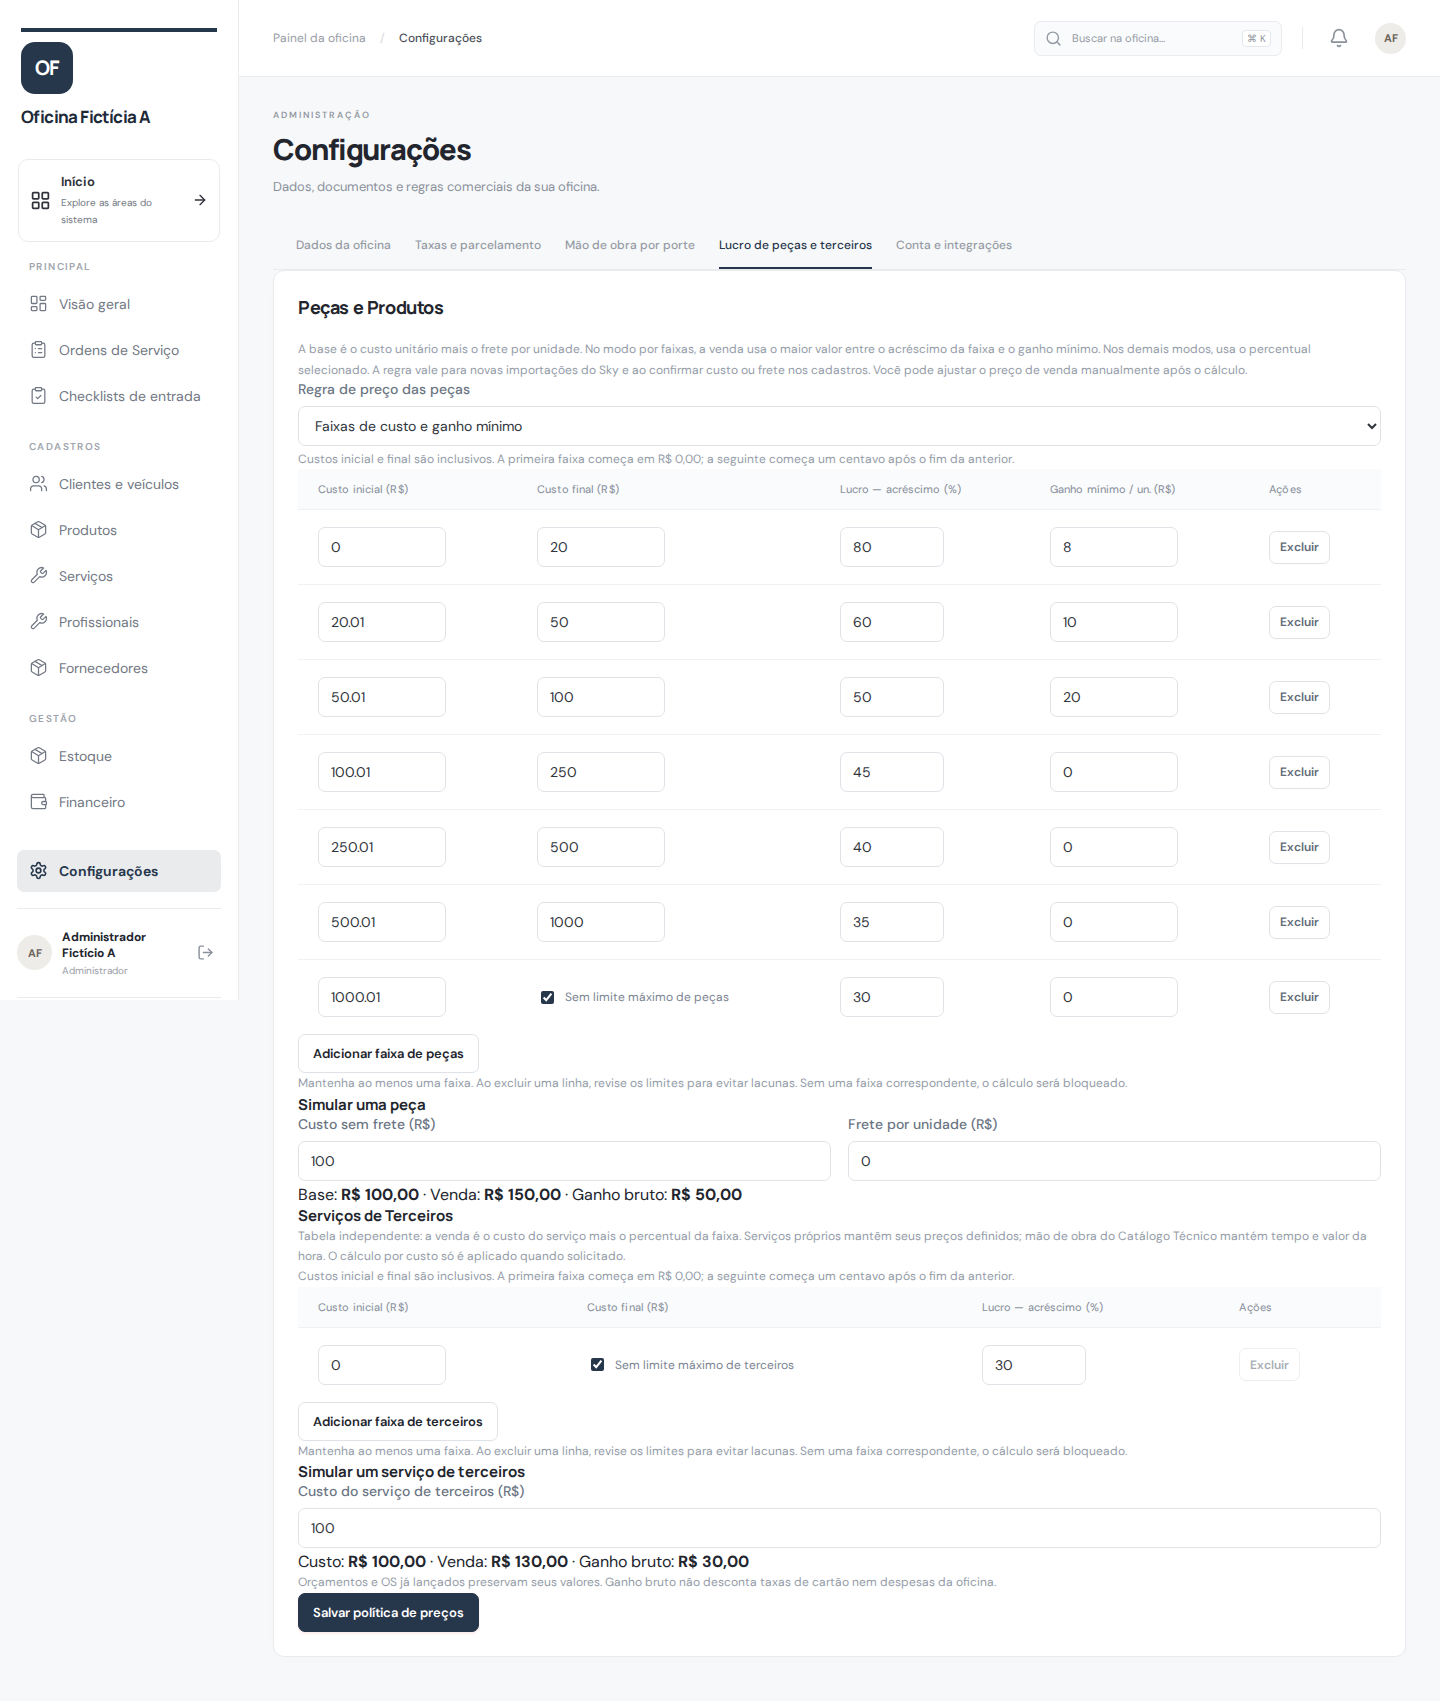
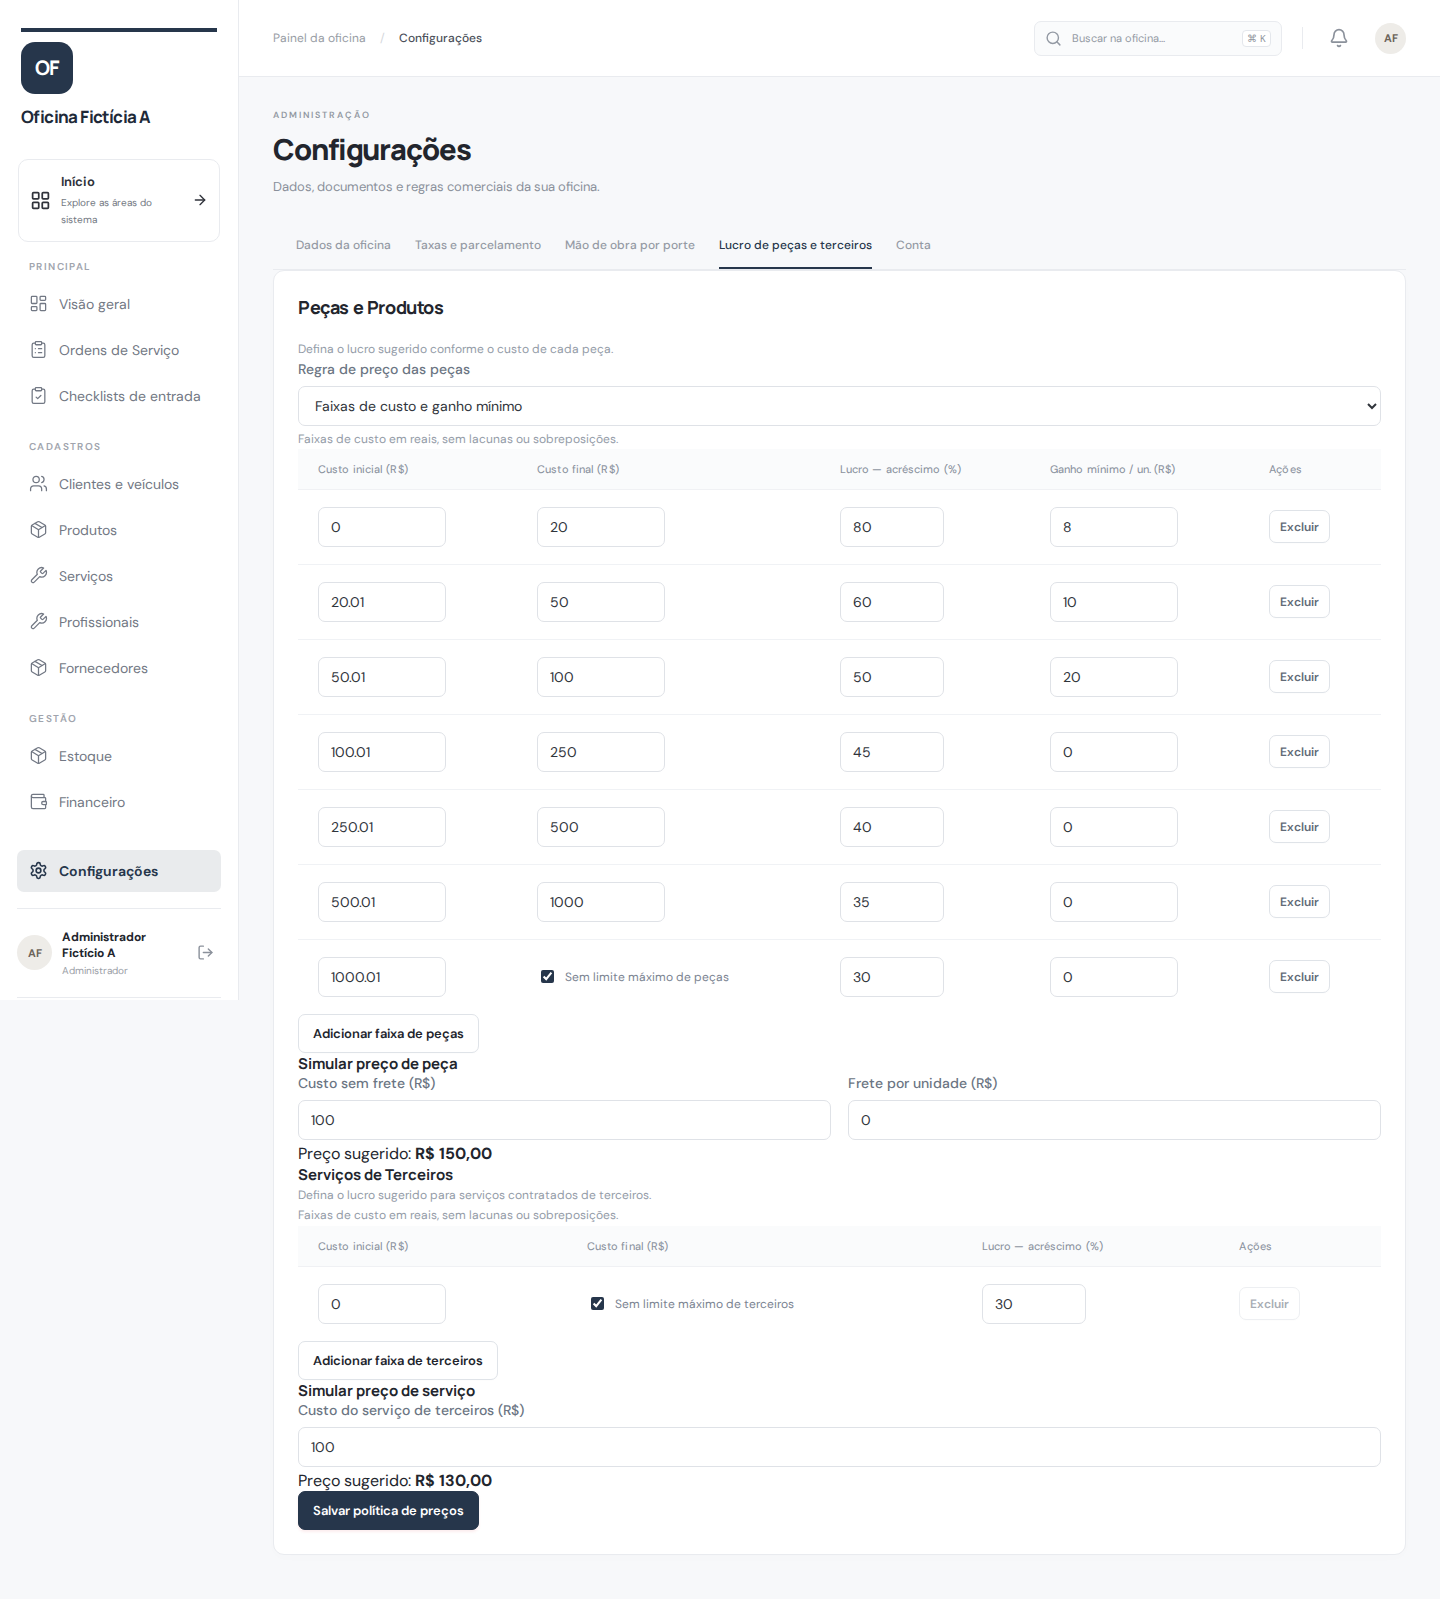
fix: simplificar a aba Lucro de peças e terceiros (#108)
* fix: simplificar textos e resultados da aba Lucro de peças

* docs: atualizar capturas simplificadas de lucro desktop e mobile

diff --git a/src/pages/PartsPricing.tsx b/src/pages/PartsPricing.tsx
@@ -49,10 +49,7 @@ function ProfitTable({
   const error = rangeError(rows);
   return (
     <>
-      <p className="muted">
-        Custos inicial e final são inclusivos. A primeira faixa começa em R$
-        0,00; a seguinte começa um centavo após o fim da anterior.
-      </p>
+      <p className="muted">Faixas de custo em reais, sem lacunas ou sobreposições.</p>
       <div className="table-scroll">
         <table
           aria-label={
@@ -188,11 +185,7 @@ function ProfitTable({
           {thirdParty ? "Serviços de Terceiros" : "Peças e Produtos"}: {error}
         </p>
       )}
-      <p className="muted">
-        Mantenha ao menos uma faixa. Ao excluir uma linha, revise os limites
-        para evitar lacunas. Sem uma faixa correspondente, o cálculo será
-        bloqueado.
-      </p>
+
     </>
   );
 }
@@ -277,14 +270,7 @@ export function PartsPricing() {
     >
       <fieldset disabled={busy} className="product-batch-fields">
         <h2>Peças e Produtos</h2>
-        <p className="muted">
-          A base é o custo unitário mais o frete por unidade. No modo por
-          faixas, a venda usa o maior valor entre o acréscimo da faixa e o ganho
-          mínimo. Nos demais modos, usa o percentual selecionado. A regra vale
-          para novas importações do Sky e ao confirmar custo ou frete nos
-          cadastros. Você pode ajustar o preço de venda manualmente após o
-          cálculo.
-        </p>
+        <p className="muted">Defina o lucro sugerido conforme o custo de cada peça.</p>
         <Field label="Regra de preço das peças">
           <select
             value={mode}
@@ -317,13 +303,10 @@ export function PartsPricing() {
           </Field>
         )}
         {mode !== "legacy" && (
-          <p className="muted">
-            A tabela abaixo fica preservada e só será utilizada no modo Faixas
-            de custo e ganho mínimo.
-          </p>
+          <p className="muted">As faixas ficam guardadas para quando este modo for selecionado.</p>
         )}
         <ProfitTable rows={rules} setRows={setRules} />
-        <h3>Simular uma peça</h3>
+        <h3>Simular preço de peça</h3>
         <div className="form-grid">
           <Field label="Custo sem frete (R$)">
             <NumericInput
@@ -352,20 +335,13 @@ export function PartsPricing() {
           <p role="alert">{simulationError}</p>
         ) : (
           <p data-testid="product-price-simulation">
-            Base: <strong>{money(base)}</strong> · Venda:{" "}
-            <strong>{money(price)}</strong> · Ganho bruto:{" "}
-            <strong>{money(price - base)}</strong>
+            Preço sugerido: <strong>{money(price)}</strong>
           </p>
         )}
         <h3>Serviços de Terceiros</h3>
-        <p className="muted">
-          Tabela independente: a venda é o custo do serviço mais o percentual da
-          faixa. Serviços próprios mantêm seus preços definidos; mão de obra do
-          Catálogo Técnico mantém tempo e valor da hora. O cálculo por custo só
-          é aplicado quando solicitado.
-        </p>
+        <p className="muted">Defina o lucro sugerido para serviços contratados de terceiros.</p>
         <ProfitTable rows={serviceRules} setRows={setServiceRules} thirdParty />
-        <h3>Simular um serviço de terceiros</h3>
+        <h3>Simular preço de serviço</h3>
         <Field label="Custo do serviço de terceiros (R$)">
           <NumericInput
             type="number"
@@ -381,15 +357,10 @@ export function PartsPricing() {
           <p role="alert">{serviceError}</p>
         ) : (
           <p data-testid="service-price-simulation">
-            Custo: <strong>{money(serviceCost)}</strong> · Venda:{" "}
-            <strong>{money(servicePrice)}</strong> · Ganho bruto:{" "}
-            <strong>{money(servicePrice - serviceCost)}</strong>
+            Preço sugerido: <strong>{money(servicePrice)}</strong>
           </p>
         )}
-        <p className="muted">
-          Orçamentos e OS já lançados preservam seus valores. Ganho bruto não
-          desconta taxas de cartão nem despesas da oficina.
-        </p>
+
         {error && (
           <div role="alert" className="error-box">
             {error}

diff --git a/docs/mapeamento-visual/CHECKLIST.md b/docs/mapeamento-visual/CHECKLIST.md
@@ -38,7 +38,7 @@ Estados: capturada, pendente, bloqueada e não aplicável.
 | config-dados-oficina | Configurações da oficina | Dados da Oficina Fictícia A — Identificação, endereço efetivo, navegação por seções e prévia de documento. | [`capturas/14-configuracoes/dados-oficina-a.png`](./capturas/14-configuracoes/dados-oficina-a.png) | capturada | 2026-11-01 | 56b226764ee6420a52bdff3a41bd459113618460 | — |
 | config-geral-taxas | Configurações da oficina | Taxas e parcelamento — Máquinas independentes, padrão da oficina e juros de parcelamento. | [`capturas/14-configuracoes/geral-e-taxas.png`](./capturas/14-configuracoes/geral-e-taxas.png) | capturada | 2026-11-01 | 26770cc4da2ccbf9de3620882b0a87066fdce927 | — |
 | config-mao-obra | Configurações da oficina | Mão de obra por porte — Valores de referência sem alteração. | [`capturas/14-configuracoes/mao-de-obra.png`](./capturas/14-configuracoes/mao-de-obra.png) | capturada | 2026-11-01 | 56b226764ee6420a52bdff3a41bd459113618460 | — |
-| config-lucro-pecas | Configurações da oficina | Lucro de peças e terceiros — Tabelas independentes com inclusão, edição, exclusão, limites inclusivos e simuladores de peças e terceiros. | [`capturas/14-configuracoes/lucro-pecas-terceiros.png`](./capturas/14-configuracoes/lucro-pecas-terceiros.png) | capturada | 2026-11-01 | f5768888f02977880ff9e976fa5fad6670796efd | — |
+| config-lucro-pecas | Configurações da oficina | Lucro de peças e terceiros — Faixas editáveis de peças e terceiros com simuladores que mostram o preço sugerido. | [`capturas/14-configuracoes/lucro-pecas-terceiros.png`](./capturas/14-configuracoes/lucro-pecas-terceiros.png) | capturada | 2026-11-03 | b8d27c0f97305c128c7a4a8ed9047aad4c061261 | — |
 | login-painel-central | Painel Administrativo Central | Login do Painel Administrativo Central — Formulário vazio; nenhuma credencial ou código MFA aparece na captura. | [`capturas/17-painel-admin-central/login-admin-central.png`](./capturas/17-painel-admin-central/login-admin-central.png) | capturada | 2026-10-22 | não registrado | Captura real com dados fictícios feita em 22/10/2026. O commit de origem não foi registrado; recaptura Playwright e atualização do commit estão pendentes. |
 | login-oficina-desktop | Login e acesso | Login da oficina — Tela inicial de autenticação, sem usuário ou senha preenchidos. | `capturas/01-login-acesso/login-oficina-desktop.png` (previsto) | pendente | — | não registrado | Variante desktop ainda não foi gerada. Execute a captura Playwright em ambiente local de teste. |
 | inicio-oficina-a-desktop | Dashboard | Início da Oficina Fictícia A — Menu e atalhos da conta de demonstração. | `capturas/02-dashboard/inicio-oficina-desktop.png` (previsto) | pendente | — | não registrado | Variante desktop ainda não foi gerada. Execute a captura Playwright em ambiente local de teste. |
@@ -74,7 +74,7 @@ Estados: capturada, pendente, bloqueada e não aplicável.
 | config-dados-oficina-desktop | Configurações da oficina | Dados da Oficina Fictícia A — Identificação, endereço efetivo, navegação por seções e prévia de documento. | [`capturas/14-configuracoes/dados-oficina-a-desktop.png`](./capturas/14-configuracoes/dados-oficina-a-desktop.png) | capturada | 2026-11-01 | 56b226764ee6420a52bdff3a41bd459113618460 | — |
 | config-geral-taxas-desktop | Configurações da oficina | Taxas e parcelamento — Máquinas independentes, padrão da oficina e juros de parcelamento. | [`capturas/14-configuracoes/geral-e-taxas-desktop.png`](./capturas/14-configuracoes/geral-e-taxas-desktop.png) | capturada | 2026-11-01 | 26770cc4da2ccbf9de3620882b0a87066fdce927 | — |
 | config-mao-obra-desktop | Configurações da oficina | Mão de obra por porte — Valores de referência sem alteração. | [`capturas/14-configuracoes/mao-de-obra-desktop.png`](./capturas/14-configuracoes/mao-de-obra-desktop.png) | capturada | 2026-11-01 | 56b226764ee6420a52bdff3a41bd459113618460 | — |
-| config-lucro-pecas-desktop | Configurações da oficina | Lucro de peças e terceiros — Tabelas independentes com inclusão, edição, exclusão, limites inclusivos e simuladores de peças e terceiros. | [`capturas/14-configuracoes/lucro-pecas-terceiros-desktop.png`](./capturas/14-configuracoes/lucro-pecas-terceiros-desktop.png) | capturada | 2026-11-01 | f5768888f02977880ff9e976fa5fad6670796efd | — |
+| config-lucro-pecas-desktop | Configurações da oficina | Lucro de peças e terceiros — Faixas editáveis de peças e terceiros com simuladores que mostram o preço sugerido. | [`capturas/14-configuracoes/lucro-pecas-terceiros-desktop.png`](./capturas/14-configuracoes/lucro-pecas-terceiros-desktop.png) | capturada | 2026-11-03 | b8d27c0f97305c128c7a4a8ed9047aad4c061261 | — |
 | cliente-novo | Clientes | Cadastro de cliente — Abrir, preencher e validar o formulário de cadastro com dados fictícios. | — | pendente | — | não registrado | A interação ainda não possui arquivo PNG correspondente; executar em navegador e dados de teste isolados. |
 | cliente-edicao | Clientes | Edição de cliente — Abrir e salvar alterações em cadastro de teste isolado. | — | pendente | — | não registrado | A interação ainda não possui arquivo PNG correspondente; executar em navegador e dados de teste isolados. |
 | cliente-pesquisa-filtro | Clientes | Pesquisa e filtro de clientes — Registrar pesquisa, filtro e ausência de resultados. | — | pendente | — | não registrado | A interação ainda não possui arquivo PNG correspondente; executar em navegador e dados de teste isolados. |

diff --git a/docs/mapeamento-visual/INDEX.md b/docs/mapeamento-visual/INDEX.md
@@ -544,11 +544,11 @@ Estado: capturada · mobile · captura 2026-11-01 · commit de origem: 56b226764
 
 ### Lucro de peças e terceiros
 
-Tabelas independentes com inclusão, edição, exclusão, limites inclusivos e simuladores de peças e terceiros.
+Faixas editáveis de peças e terceiros com simuladores que mostram o preço sugerido.
 
 [![Lucro de peças e terceiros](./capturas/14-configuracoes/lucro-pecas-terceiros.png)](./capturas/14-configuracoes/lucro-pecas-terceiros.png)
 
-Estado: capturada · mobile · captura 2026-11-01 · commit de origem: f5768888f02977880ff9e976fa5fad6670796efd · [arquivo completo](./capturas/14-configuracoes/lucro-pecas-terceiros.png)
+Estado: capturada · mobile · captura 2026-11-03 · commit de origem: b8d27c0f97305c128c7a4a8ed9047aad4c061261 · [arquivo completo](./capturas/14-configuracoes/lucro-pecas-terceiros.png)
 
 ### Dados da Oficina Fictícia A
 
@@ -576,11 +576,11 @@ Estado: capturada · desktop · captura 2026-11-01 · commit de origem: 56b22676
 
 ### Lucro de peças e terceiros
 
-Tabelas independentes com inclusão, edição, exclusão, limites inclusivos e simuladores de peças e terceiros.
+Faixas editáveis de peças e terceiros com simuladores que mostram o preço sugerido.
 
 [![Lucro de peças e terceiros](./capturas/14-configuracoes/lucro-pecas-terceiros-desktop.png)](./capturas/14-configuracoes/lucro-pecas-terceiros-desktop.png)
 
-Estado: capturada · desktop · captura 2026-11-01 · commit de origem: f5768888f02977880ff9e976fa5fad6670796efd · [arquivo completo](./capturas/14-configuracoes/lucro-pecas-terceiros-desktop.png)
+Estado: capturada · desktop · captura 2026-11-03 · commit de origem: b8d27c0f97305c128c7a4a8ed9047aad4c061261 · [arquivo completo](./capturas/14-configuracoes/lucro-pecas-terceiros-desktop.png)
 
 ### Conta da oficina
 
